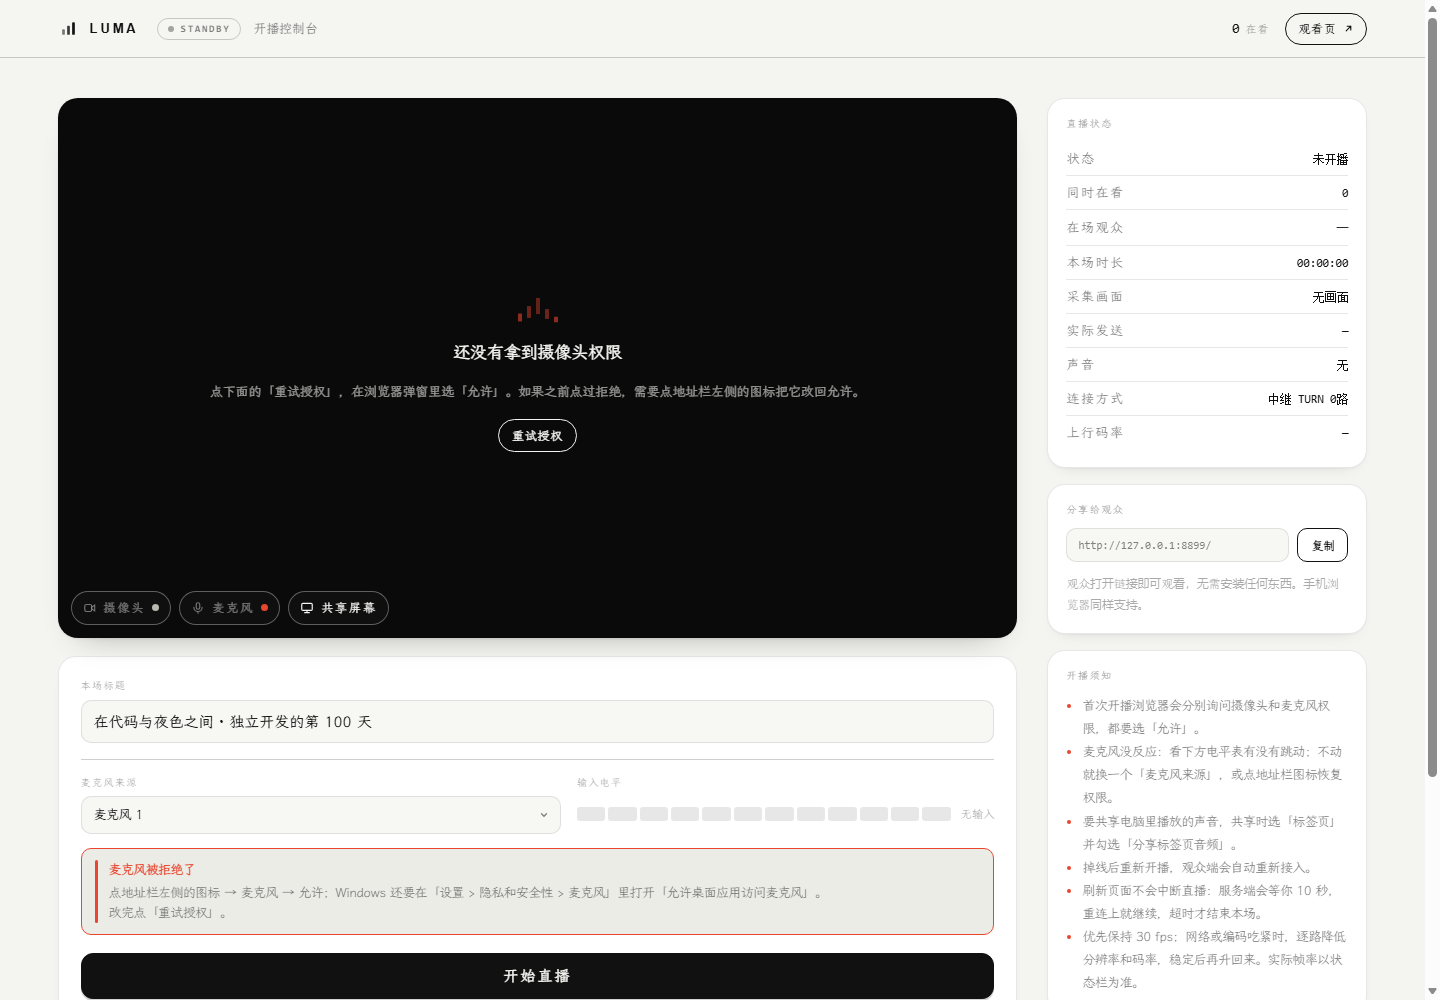
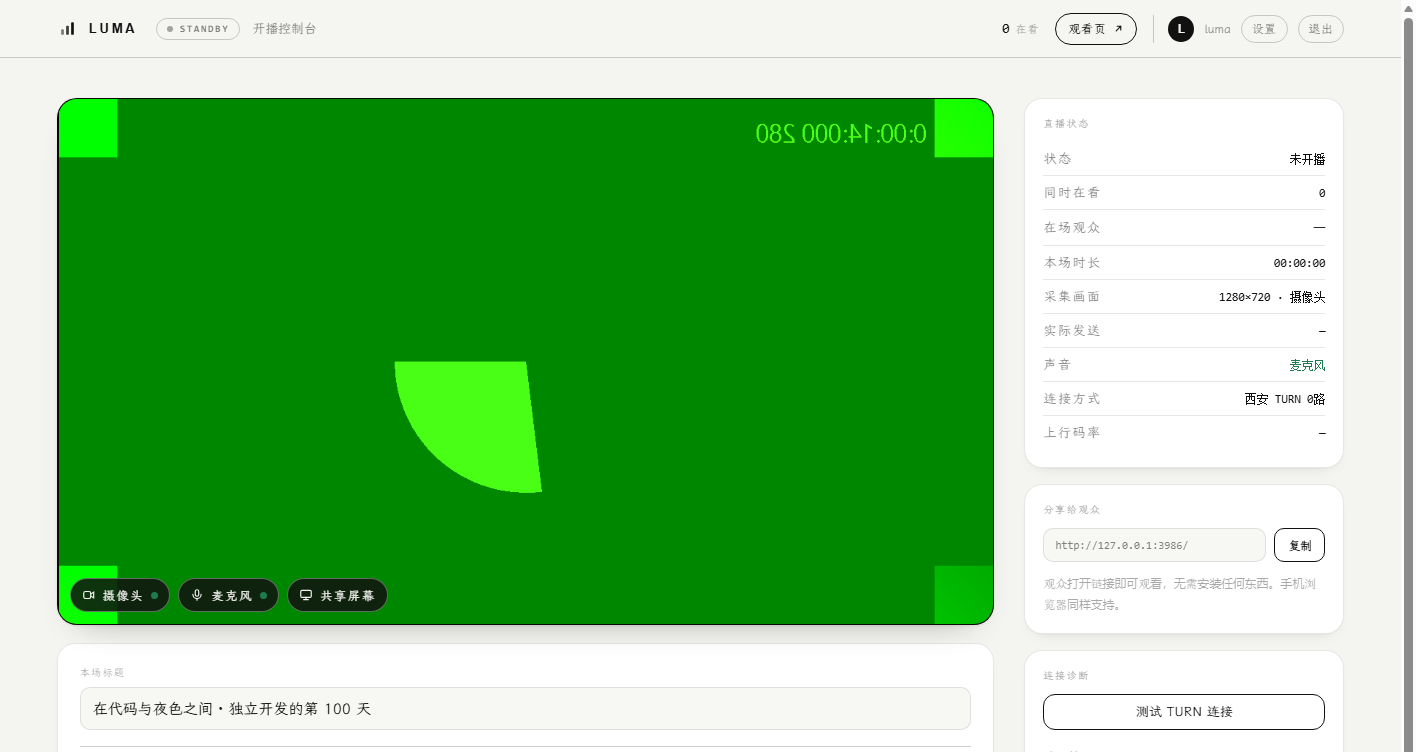
docs: README 对齐 1.3.0（诊断、摄像头切换、CI、部署方式），重拍截图
- 界面预览改成三列，补登录页截图；开播台截图重拍（含连接诊断结果）
- 产品能力补：摄像头热切换、网页内连接诊断、SSE 票据、安全响应头
- 快速开始补：AUTH_USERS 只作首次种子，公网部署请看 deploy.sh
- 测试段补 CI 覆盖内容；目录结构补 .github/ 与 CHANGELOG
- 路线图勾掉已完成的诊断/热切换/部署/CI，自适应码率标注为暂不计划

diff --git a/README.md b/README.md
@@ -45,6 +45,8 @@
 - 主播可创建直播，观众通过浏览器观看、聊天。
 - 固定发送档位为 1280×720、30 fps，视频码率上限 1.2 Mbps；这些是目标参数，不是性能保证。
 - 单主播保护、会话接管提示，以及主播信令短暂断线后的 10 秒重连宽限。
+- 摄像头热切换：切换设备时替换发送轨，不重建连接，观众端不中断。
+- 网页内连接诊断：不用先开播，逐项检查凭证、线路、中继候选、UDP/TCP 与握手耗时。
 
 </details>
 
@@ -55,6 +57,8 @@
 - 媒体强制经配置的 TURN 中继，不静默退回浏览器直连。
 - 支持账号登录、HttpOnly cookie、登录失败限速、自助改密与头像。
 - TURN 使用 coturn REST 方式签发限时凭证，共享密钥保留在服务端。
+- 开播口令不进 URL：先用 `POST /api/sse-ticket` 换 60 秒一次性票据，再拼进 SSE query。
+- CSP / Permissions-Policy / COOP / CORP 等安全响应头，写接口校验 Origin/Referer。
 
 </details>
 
@@ -67,6 +71,9 @@
 3. 如果没有 Node.js，按提示安装 **Node.js LTS（≥18）** 后重新运行。
 4. 打开 <http://localhost:3000/login> 登录，再进入开播台并授权摄像头、麦克风。
 5. 局域网观众可访问 `http://<运行服务的内网IP>:3000/`。
+
+`AUTH_USERS` 只在首次启动时作为种子写入 `data/users.json`，之后账号以文件为准 ——
+改环境变量不会覆盖已有账号。真要上公网别走这套手动流程，直接用下面的[部署方式](#部署方式)。
 
 也可以在项目目录执行：
 
@@ -158,11 +165,11 @@ node server.js
 
 ## 界面预览
 
-| 开播控制台 | 观众页 |
-| --- | --- |
-| ![开播控制台](docs/studio.png) | ![观众页](docs/viewer.png) |
+| 登录页 | 开播控制台 | 观众页 |
+| --- | --- | --- |
+| ![登录页](docs/login.png) | ![开播控制台](docs/studio.png) | ![观众页](docs/viewer.png) |
 
-窄屏观众页会从播放器 + 聊天双栏切换为单列布局。
+窄屏观众页会从播放器 + 聊天双栏切换为单列布局；开播台的摄像头与麦克风来源都能在开播过程中切换。
 
 ## 架构
 
@@ -239,6 +246,14 @@ npm run doctor        # 部署自检：Node 版本、数据目录、账号、TUR
 node scripts/hash-pass.js '密码'   # 生成可写进 AUTH_USERS 的 scrypt 摘要
 ```
 
+以上命令由 CI（`.github/workflows/ci.yml`）在每次推送时执行，另外还会跑 JS / shell 语法检查、
+脚本可执行位检查与 `npm run doctor`：
+
+```bash
+for f in server.js src/*.js scripts/*.js; do node --check "$f"; done
+for f in scripts/*.sh start.sh; do bash -n "$f"; done
+```
+
 > 测试通过仅表示相应自动化场景通过，不等价于跨浏览器、跨网络或生产容量认证。
 
 部署后可以先跑一次 `npm run doctor` 再开播；TURN 那边有对应的只读自检：
@@ -275,8 +290,10 @@ src/
   turn.js               TURN 线路与 REST 凭证现签
   util.js               定时安全比较
 public/                 登录页、观众页、开播台与前端逻辑
-scripts/                API / 浏览器回归测试、TURN 部署与自检、密码摘要工具
+scripts/                回归测试、deploy.sh（一键部署）、setup-turn.sh、hash-pass.js
 deploy/                 Caddyfile、nginx.conf、systemd 模板
+.github/workflows/      CI：语法检查、API 回归、部署自检
+CHANGELOG.md            版本变更与升级注意事项
 start.bat / start.sh    Windows / macOS / Linux 启动入口
 Dockerfile              容器构建配置
 docs/                   README 截图与横幅
@@ -292,11 +309,16 @@ data/                   运行时生成的账号库与头像（不入库）
 - [x] TURN 凭证下发与中继识别
 - [x] 强制中继的固定发送参数
 - [x] 公网 TURN 中继链路实测
-- [ ] 逐观众自适应码率
 - [x] SSE 使用短期票据取代 query 中的凭证
+- [x] 密码升级到 scrypt + 旧格式透明迁移
+- [x] 网页内 TURN / WebRTC 连接诊断
+- [x] 摄像头热切换（replaceTrack，不重建连接）
+- [x] Ubuntu / Debian 一键部署：同机 / 拆分两种拓扑
+- [x] 健康检查、部署自检与 CI
+- [ ] 设备管理面板（音频输出、断线自动恢复）
 - [ ] 录像与回看
 - [ ] 可选 SFU 模式
-- [x] Ubuntu / Debian 一键配置 TURN 脚本
+- [ ] 逐观众自适应码率（暂不计划：固定档位是主动取舍，反复调档容易带来画面抖动）
 
 ## 贡献与反馈
 
